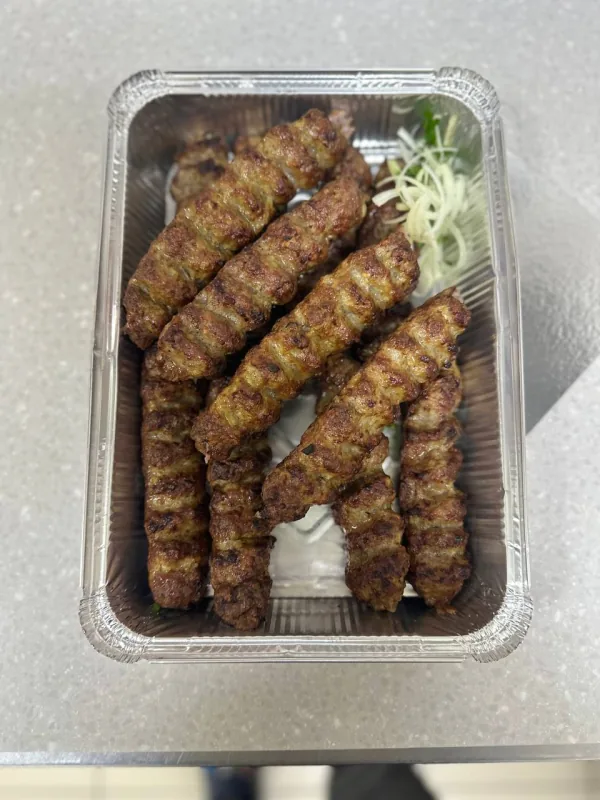
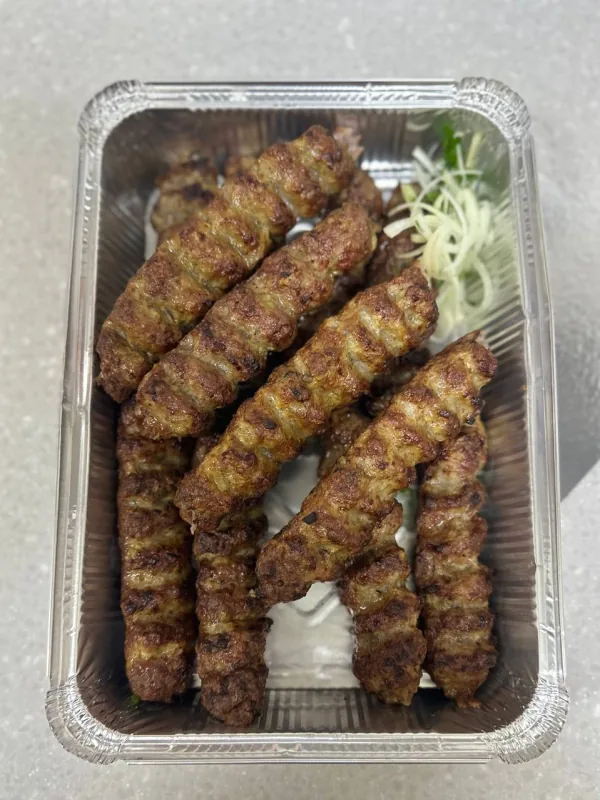
feat(delivery): update lyulya, neck, chicken assortment photos and add set-for-two photo

diff --git a/delivery/index.html b/delivery/index.html
@@ -142,13 +142,12 @@
       <article class="dish dish-paired" data-dish="salmon-steak">
         <h3>Стейк из сёмги</h3>
         <div class="dish-portions">
-          <figure class="dish-portion" data-portion="150">
-            <div class="dish-photo"><img src="/assets/menu/salmon-steak.webp" alt="Стейк из сёмги — 150 г, в контейнере" width="600" height="800" loading="lazy" decoding="async"></div>
-            <figcaption><dl class="dish-prices"><div><dt>150 г</dt><dd><data value="450">450&nbsp;₽</data></dd></div></dl></figcaption>
-          </figure>
-          <figure class="dish-portion" data-portion="750">
-            <div class="dish-photo"><svg width="32" height="32" aria-hidden="true"><use href="#camera"></use></svg><span>Фото порции<br>пока нет</span></div>
-            <figcaption><dl class="dish-prices"><div><dt>750 г</dt><dd><data value="2250">2 250&nbsp;₽</data></dd></div></dl></figcaption>
+          <figure class="dish-portion">
+            <div class="dish-photo"><img src="/assets/menu/salmon-steak.webp" alt="Стейк из сёмги — порция 150 г, в контейнере" width="600" height="800" loading="lazy" decoding="async"></div>
+            <figcaption><dl class="dish-prices">
+              <div><dt>150 г</dt><dd><data value="450">450&nbsp;₽</data></dd></div>
+              <div><dt>750 г</dt><dd><data value="2250">2 250&nbsp;₽</data></dd></div>
+            </dl></figcaption>
           </figure>
         </div>
       </article>
@@ -229,8 +228,7 @@
         <p class="dish-description">Свиная шея, куриное ассорти, острая квашеная капуста, картофель фри, соусы на выбор.</p>
       </article>
       <article class="dish dish-set" data-dish="set-two">
-        <!-- TODO-PHOTO: replace with a real photo of set-two. -->
-        <div class="dish-photo"><svg width="32" height="32" aria-hidden="true"><use href="#camera"></use></svg><span>Фото блюда<br>пока нет</span></div>
+        <div class="dish-photo"><img src="/assets/menu/set-two.webp" alt="Сет на двоих: мясо, картофель фри и капустный салат в контейнерах" width="600" height="800" loading="lazy" decoding="async"></div>
         <div class="dish-main">
           <h3>Сет на двоих</h3>
           <dl class="dish-prices">

diff --git a/tests/test_delivery_photos.py b/tests/test_delivery_photos.py
@@ -11,7 +11,7 @@ PHOTO_DISHES = {
     'chicken-nuggets', 'khachapuri-megrelian', 'khachapuri-puff', 'set-big',
     'lamb-on-bone', 'salmon-steak', 'lyulya-pork-beef',
     'grilled-vegetables', 'pizza-pepperoni',
-    'chicken-wings', 'grilled-mushrooms', 'khachapuri-adjarian', 'pizza-ham',
+    'chicken-wings', 'grilled-mushrooms', 'khachapuri-adjarian', 'pizza-ham', 'set-two',
 }
 PAIRED_PHOTOS = {'chicken-fillet', 'chicken-assortment', 'lamb-on-bone', 'pork-neck',
                  'chicken-wings', 'lyulya-pork-beef', 'lyulya-beef-lamb'}
@@ -62,7 +62,6 @@ class DeliveryPhotosTest(unittest.TestCase):
             'chicken-wings': [('200', '280', 'chicken-wings.webp'), ('1000', '1000', 'chicken-wings-1kg.webp')],
             'lyulya-pork-beef': [('200', '390', 'lyulya-pork-beef.webp'), ('1000', '1400', 'lyulya-pork-beef-1kg.webp')],
             'lyulya-beef-lamb': [('200', '390', 'lyulya-beef-lamb.webp'), ('1000', '1500', 'lyulya-beef-lamb-1kg.webp')],
-            'salmon-steak': [('150', '450', 'salmon-steak.webp'), ('750', '2250', None)],
             'lyulya-chicken': [('200', '390', None), ('1000', '1500', None)],
         }
         self.assertEqual({dish for dish, portions in menu.portions.items() if portions}, set(expected))
@@ -70,6 +69,13 @@ class DeliveryPhotosTest(unittest.TestCase):
             with self.subTest(dish=dish):
                 actual = [(p['weight'], p['prices'], p['images']) for p in menu.portions[dish]]
                 self.assertEqual(actual, [(weight, [price], ['/assets/menu/' + photo] if photo else []) for weight, price, photo in portions])
+
+    def test_salmon_has_one_photo_with_both_portion_prices(self):
+        html = (ROOT / 'delivery/index.html').read_text()
+        card = html.split('data-dish="salmon-steak"')[1].split('</article>')[0]
+        self.assertEqual(card.count('<img'), 1)
+        self.assertIn('<data value="450">', card)
+        self.assertIn('<data value="2250">', card)
 
     def test_chicken_cards_use_confirmed_200g_photos(self):
         menu = MenuParser()
